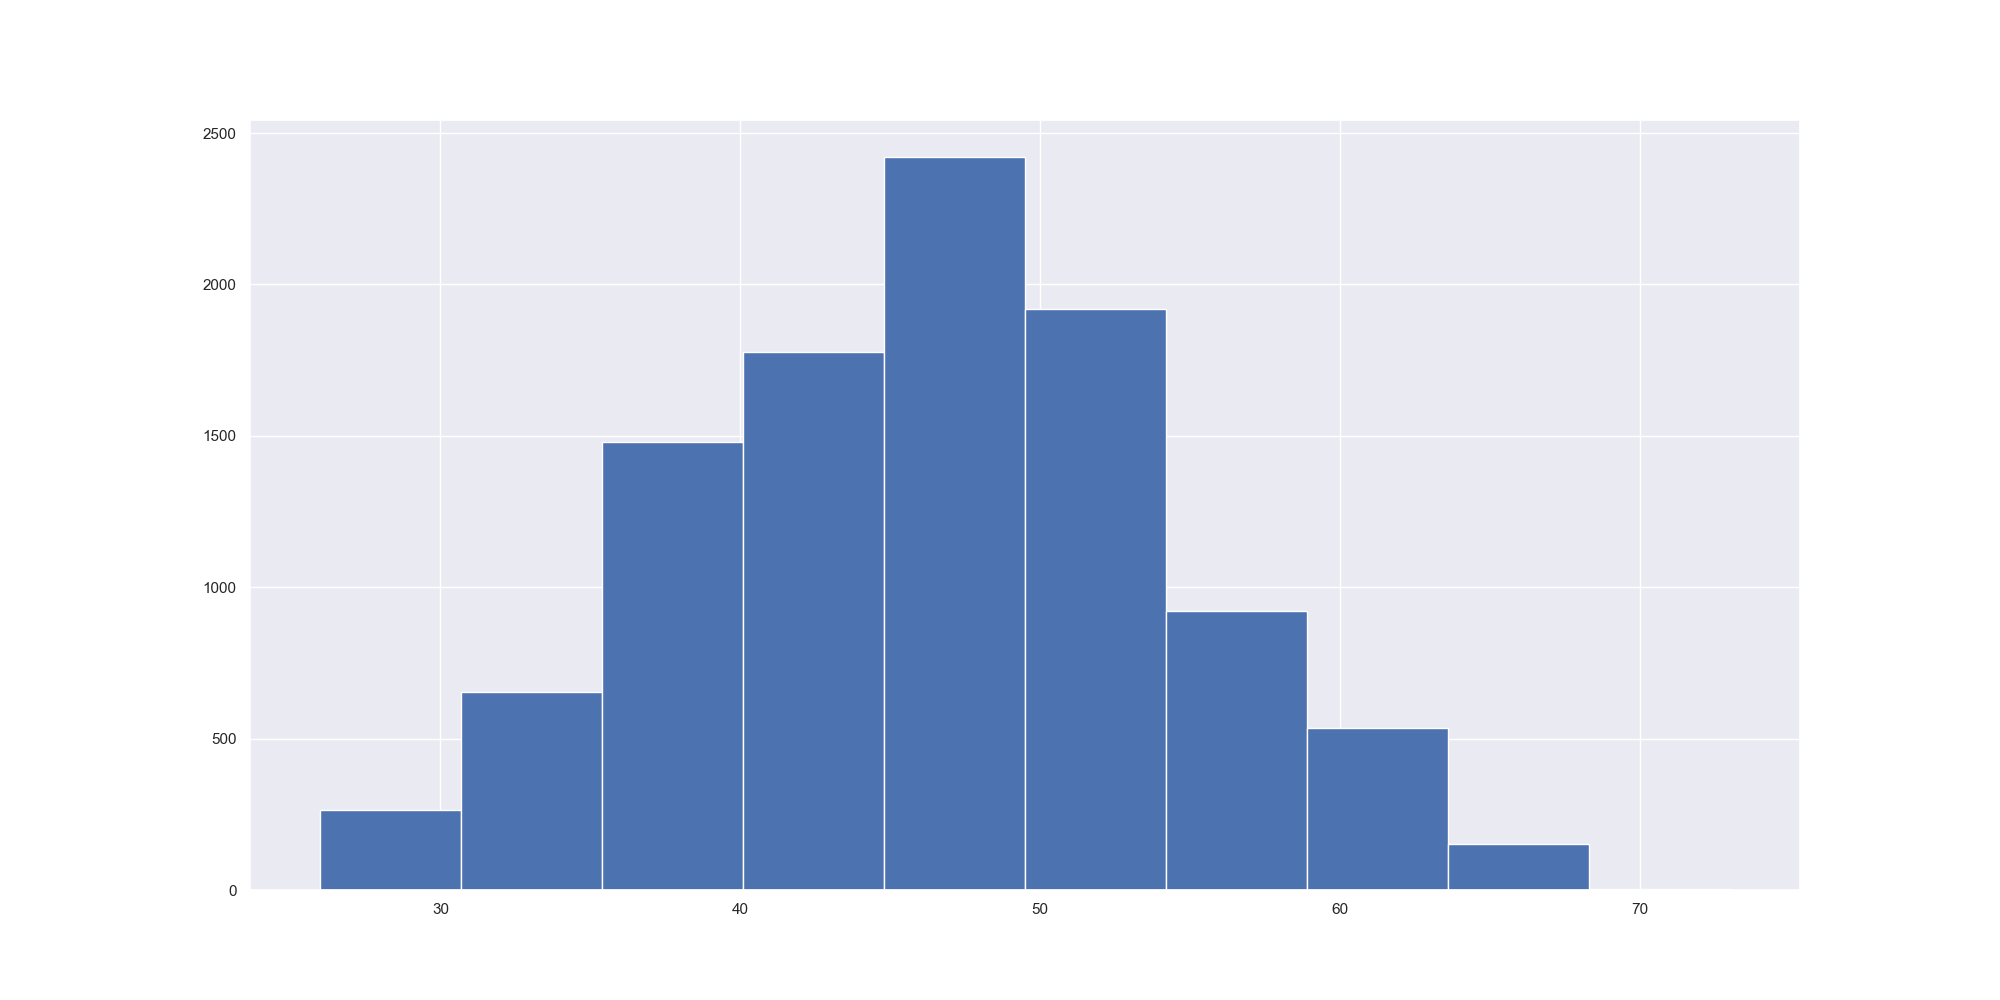
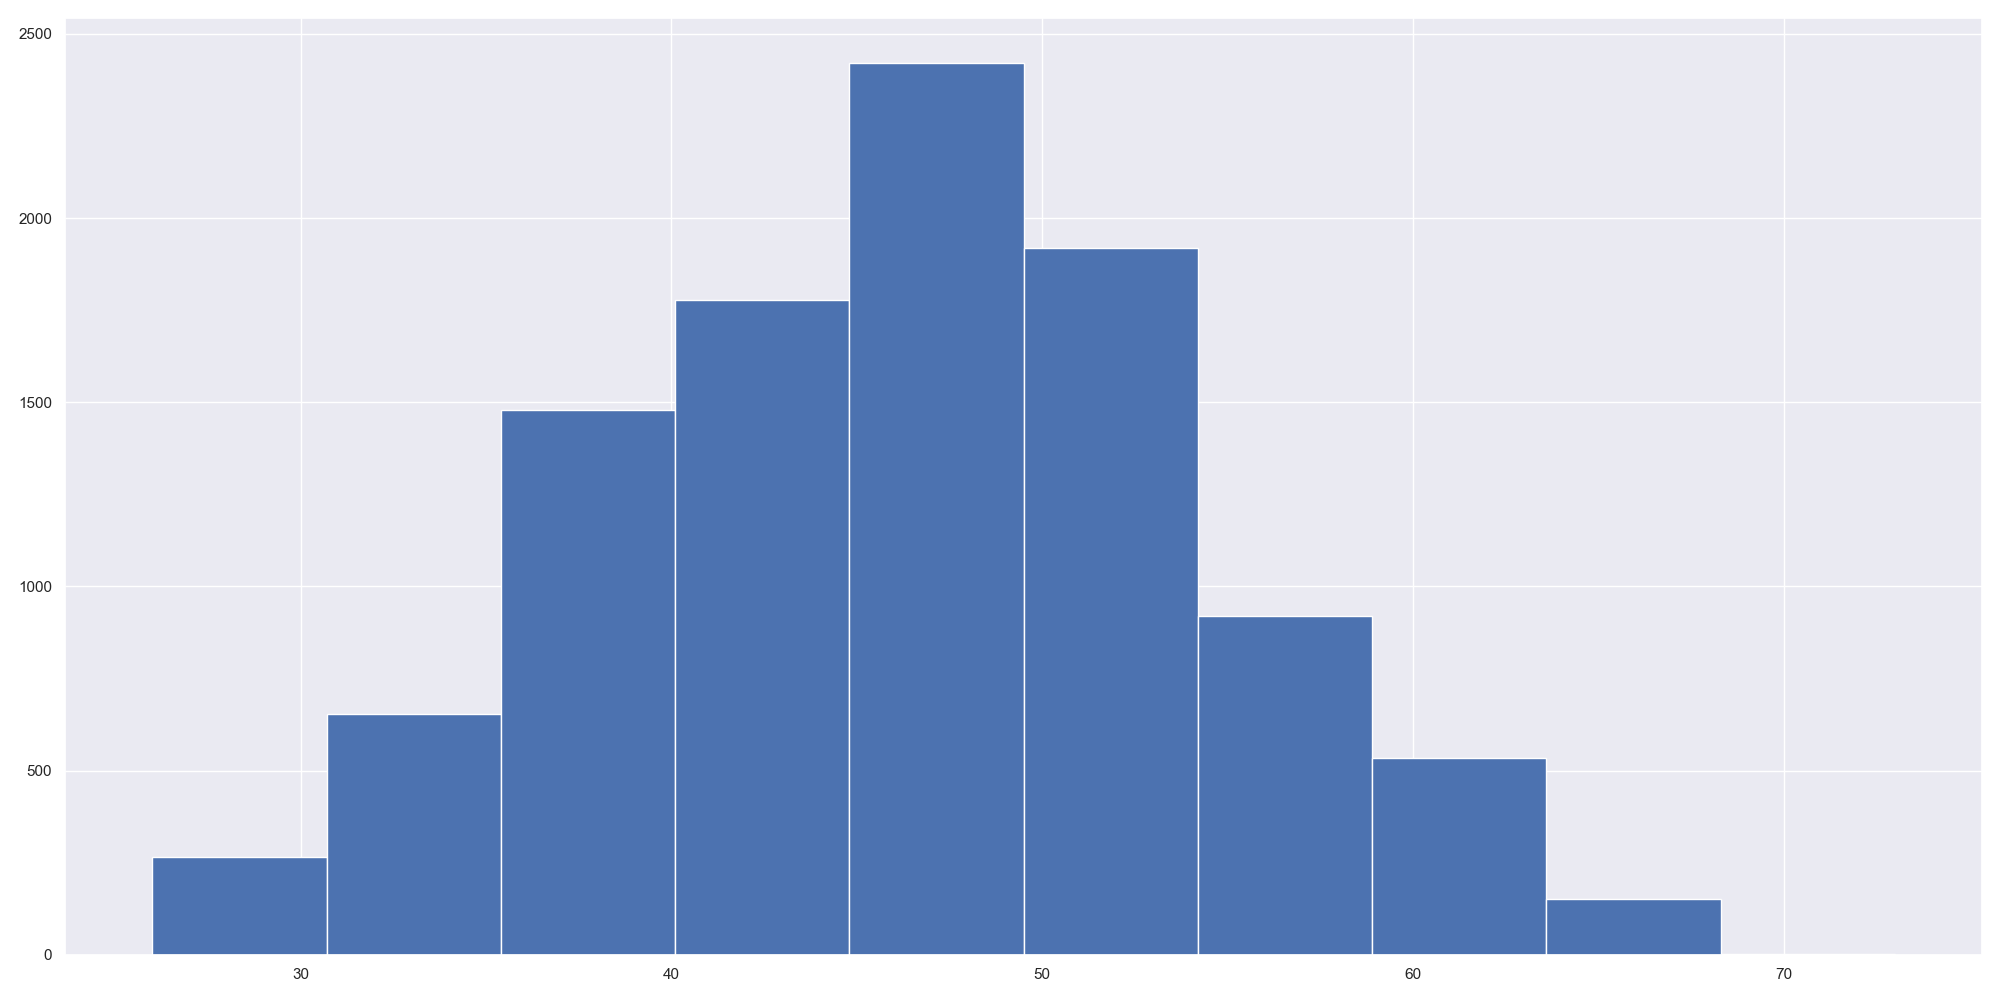
Fixed feature importance plot x labels getting cutoff

Changed region(s): [[0.062, 0.062, 0.868, 0.961]]

diff --git a/churn_library.py b/churn_library.py
@@ -7,12 +7,14 @@ import matplotlib.pyplot as plt
 import numpy as np
 import pandas as pd
 import seaborn as sns
+from matplotlib import rcParams
 from sklearn.ensemble import RandomForestClassifier
 from sklearn.linear_model import LogisticRegression
 from sklearn.metrics import classification_report
 from sklearn.model_selection import GridSearchCV, train_test_split
 
 sns.set()
+rcParams.update({"figure.autolayout": True})
 os.environ["QT_QPA_PLATFORM"] = "offscreen"
 
 # Define paths
